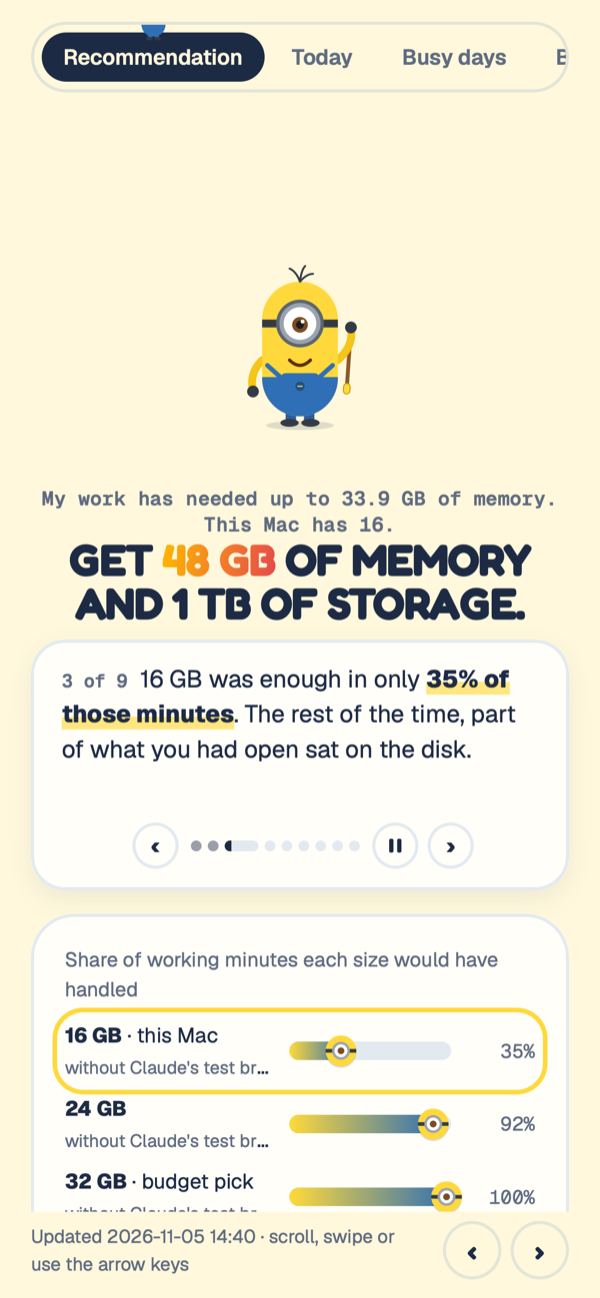
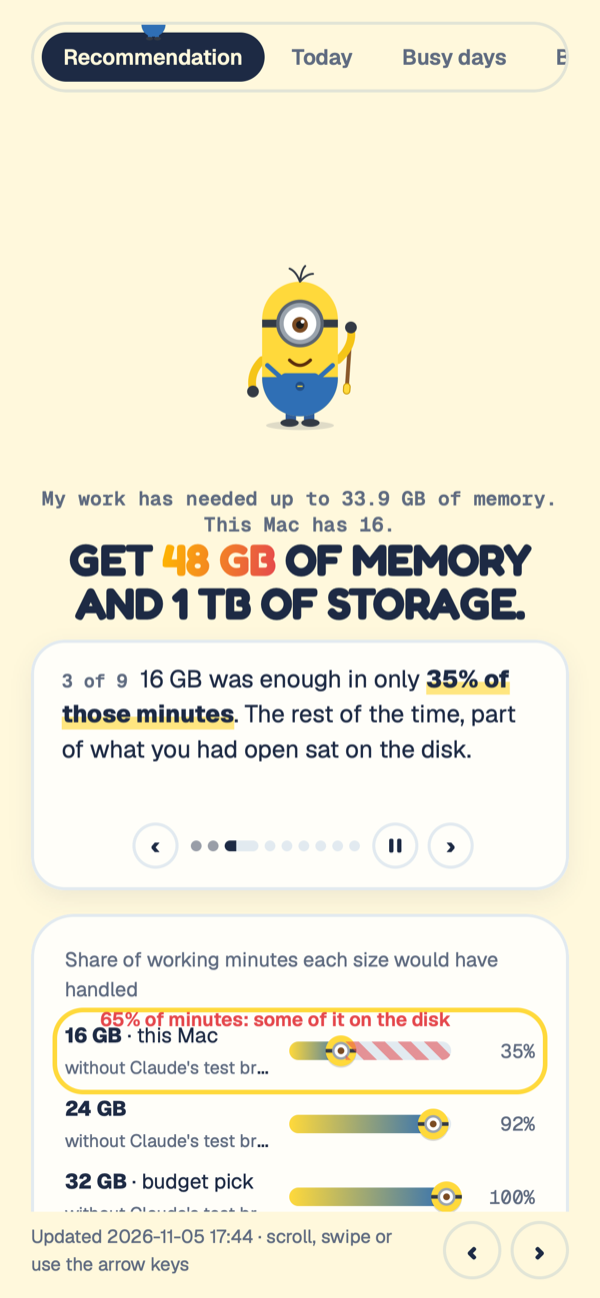
1.2.0: on the Recommendation tab the page's own charts act out each step of the buddy's explanation
Bars regrow while it counts the minutes, the part that did not fit turns into red 'on the disk'
stripes, a banana-striped stretch shows the test browsers closed, a 99% line drops for the budget
pick, the jars card comes forward and is measured (busiest minute, plus a quarter, then the size),
storage and days measured get small gauges, and the summary lands in the headline. A click or
scroll anywhere puts the page back; reduced motion jumps to each scene's end; phones skip the fade.
README lesson demo re-recorded.

Changed region(s): [[0.15, 0.7704, 0.75, 0.832], [0.45, 0.9245, 0.66, 0.9553], [0.36, 0.9245, 0.42, 0.9553]]

diff --git a/skills/more-bananas/app/report.py b/skills/more-bananas/app/report.py
@@ -371,7 +371,7 @@ def render(v):
 
     lesson = lesson_html(TOTAL=TOTAL, work=work, wdays=wdays, work_nb=work_nb, fits=fits, LADDER=LADDER, peak_ever=peak_ever,
                          peak_ever_when=peak_ever_when, target=target, rec=rec, budget=budget, fit16=fit16, disk_used=disk_used,
-                         disk_txt=disk_txt, n_wd=n_wd, WD_GOAL=WD_GOAL)
+                         disk_txt=disk_txt, disk_rec=disk_rec, n_wd=n_wd, WD_GOAL=WD_GOAL)
 
     # ---------- Busy hours: the takeaway ----------
     over_cells = sorted(((x, k) for k, x in wcell.items() if x > TOTAL), reverse=True)
@@ -797,50 +797,52 @@ let seen = false; try {{ seen = sessionStorage.getItem("mm-seen") === "1"; sessi
 # ---------- Recommendation: the buddy teaches how it got to the answer ----------
 # Every number comes from the readings. Steps that do not apply to this Mac are left out.
 def lesson_html(*, TOTAL, work, wdays, work_nb, fits, LADDER, peak_ever, peak_ever_when, target, rec, budget, fit16,
-                disk_used, disk_txt, n_wd, WD_GOAL):
+                disk_used, disk_txt, disk_rec, n_wd, WD_GOAL):
     def row(sz):
         return f".lad[data-sz='{sz}']" if sz in LADDER else ""
     me = int(round(TOTAL))
     nd = len(wdays)
+    # (what the stick points at, what the bubble says, the scene the page acts out, that scene's numbers)
     steps = [("#rec-note", f"I watched <b>{len(work):,} working minutes</b>, 7am to midnight, over {nd} day{'s' if nd != 1 else ''}. "
-                           "Here is how I got from those to my answer.")]
-    if peak_ever > TOTAL:
-        steps.append(("#rec-jars", f"The busiest minute, {peak_ever_when}, needed <b>{peak_ever:.1f} GB</b>. "
-                                   f"This Mac has {TOTAL:.0f}, so {peak_ever - TOTAL:.1f} GB of it had to wait on the disk."))
-    else:
-        steps.append(("#rec-jars", f"The busiest minute, {peak_ever_when}, needed <b>{peak_ever:.1f} GB</b>. "
-                                   f"This Mac has {TOTAL:.0f}, so even that minute fitted."))
+                           "Here is how I got from those to my answer.", "minutes", {"n": len(work)})]
+    spill = peak_ever > TOTAL
+    steps.append(("#rec-jars", f"The busiest minute, {peak_ever_when}, needed <b>{peak_ever:.1f} GB</b>. "
+                               + (f"This Mac has {TOTAL:.0f}, so {peak_ever - TOTAL:.1f} GB of it had to wait on the disk." if spill else
+                                  f"This Mac has {TOTAL:.0f}, so even that minute fitted."),
+                  "jar", {"jar": 0}))
     steps.append((row(me), f"{TOTAL:.0f} GB was enough in {'only ' if fit16 < .9 else ''}<b>{fit16:.0%} of those minutes</b>."
-                           + (" The rest of the time, part of what you had open sat on the disk." if fit16 < 1 else "")))
+                           + (" The rest of the time, part of what you had open sat on the disk." if fit16 < 1 else ""),
+                  "fit", {"sz": me, "pct": round(fit16 * 100)}))
     if work_nb:
         nb = fits(me, work_nb)
         if nb >= fit16 + .05:
             steps.append((row(me), f"Without the hidden test browsers Claude opens, {TOTAL:.0f} GB would have been enough "
-                                   f"<b>{nb:.0%} of the time</b>. Closing those is free; more memory is not."))
+                                   f"<b>{nb:.0%} of the time</b>. Closing those is free; more memory is not.",
+                          "nobrowsers", {"sz": me, "pct": round(fit16 * 100), "nb": round(nb * 100)}))
     if rec > TOTAL and budget != rec and budget > TOTAL:
         steps.append((row(budget), f"<b>{budget} GB</b> would have covered 99% of minutes. That is the budget pick: "
-                                   "enough for today, with little room to grow."))
-    if rec > TOTAL:
-        steps.append((", ".join(x for x in (row(rec), "#rec-mem") if x),
-                      f"For my answer I take the busiest minute, {peak_ever:.1f} GB, and add a quarter for a heavier week: "
-                      f"{target:.1f} GB. The next size Macs come in is <b>{rec} GB</b>."))
-    else:
-        steps.append(("#rec-mem", f"For my answer I take the busiest minute, {peak_ever:.1f} GB, and add a quarter for a heavier week: "
-                                  f"{target:.1f} GB. This Mac already has <b>{TOTAL:.0f} GB</b>."))
+                                   "enough for today, with little room to grow.",
+                      "budget", {"sz": budget, "pct": round(fits(budget, work) * 100)}))
+    jar_i, cap = (1, rec) if rec > TOTAL else (0, int(round(TOTAL)))
+    steps.append(("#rec-jars, #rec-mem",
+                  f"For my answer I take the busiest minute, {peak_ever:.1f} GB, and add a quarter for a heavier week: {target:.1f} GB. "
+                  + (f"The next size Macs come in is <b>{rec} GB</b>." if rec > TOTAL else f"This Mac already has <b>{TOTAL:.0f} GB</b>."),
+                  "measure", {"jar": jar_i, "cap": cap, "a": round(peak_ever, 1), "b": round(target, 1)}))
     steps.append(("#rec-disk", f"Storage: <b>{disk_used:.0f} GB</b> is in use now. Half again for growth makes "
-                               f"{disk_used * 1.5:.0f} GB, so <b>{disk_txt}</b>."))
+                               f"{disk_used * 1.5:.0f} GB, so <b>{disk_txt}</b>.",
+                  "disk", {"used": round(disk_used), "need": round(disk_used * 1.5), "cap": disk_rec, "label": disk_txt}))
     steps.append(("#rec-days", f"I have measured {n_wd} of {WD_GOAL} working days so far. A busier week could change this, "
-                               "so keep me running."))
+                               "so keep me running.", "days", {"n": n_wd, "goal": WD_GOAL}))
     steps.append(("#rec-h1", f"So: <b>{rec} GB</b> of memory and <b>{disk_txt}</b> of storage." if rec > TOTAL else
-                             f"So: this Mac&#x27;s <b>{TOTAL:.0f} GB</b> is enough for now. Look again after a busy week."))
+                             f"So: this Mac&#x27;s <b>{TOTAL:.0f} GB</b> is enough for now. Look again after a busy week.",
+                  "sum", {}))
     n = len(steps)
-    items = "".join(f'<li data-t="{t}"{" class=on" if k == 0 else ""}><span class=k>{k + 1} of {n}</span>{x}</li>'
-                    for k, (t, x) in enumerate(steps))
+    items = "".join(f'<li data-t="{t}" data-scene="{sc}" data-d=\'{json.dumps(d)}\'{" class=on" if k == 0 else ""}>'
+                    f'<span class=k>{k + 1} of {n}</span>{x}</li>' for k, (t, x, sc, d) in enumerate(steps))
     return (f'<div class="lesson en" id=lesson style="--n:1"><ol aria-label="How the buddy worked out the answer">{items}</ol>'
             '<div class=ctl><button type=button class=lp aria-label="Previous step">&lsaquo;</button><span class=ld aria-hidden=true></span>'
             '<button type=button class=lt aria-label="Pause the lesson"></button>'
             '<button type=button class=ln aria-label="Next step">&rsaquo;</button></div></div>')
-
 
 LESSON_CSS = """
 /* the lesson: one speech bubble, one step at a time; all steps share one grid cell so the bubble never changes height */
@@ -873,6 +875,48 @@ LESSON_CSS = """
 #p-rec .buddy svg.nod{animation:nod .34s ease-out}
 @keyframes nod{40%{transform:translateY(4px)}}
 @media(prefers-reduced-motion:reduce){.lesson li,.lesson li.on,.lesson-t,#p-rec .stick,.lesson .ld i{transition:none}#p-rec .buddy svg.nod{animation:none}}
+
+/* scenes: on each step the page's own pictures act it out. Everything else fades back; nothing changes size. */
+#p-rec .hero>*,#p-rec .two>.c,#p-rec .specs>.c,#p-rec .ladder .row{transition:opacity .4s ease-out,transform .6s cubic-bezier(.2,.9,.25,1)}
+#p-rec.sc-on .hero>:not(#lesson):not(.buddy-wrap),#p-rec.sc-on .two>.c:not(.sc-lead),#p-rec.sc-on .specs>.c:not(.sc-lead){opacity:.2}
+#p-rec.sc-rows .ladder .row:not(.sc-lead){opacity:.3}
+#p-rec.sc-soft .ladder .row:not(.sc-lead){opacity:.55}
+#rec-jars.sc-fwd{position:relative;z-index:6;background:var(--bg);box-shadow:0 18px 50px rgba(29,42,68,.18)}
+#rec-jars .jar{transition:opacity .4s}
+#rec-jars .jar.sc-back{opacity:.25}
+.sc-x{pointer-events:none}
+.sc-disk{position:absolute;top:0;bottom:0;right:0;border-radius:0 9px 9px 0;background:repeating-linear-gradient(45deg,color-mix(in oklab,var(--hot) 55%,transparent) 0 6px,transparent 6px 12px);
+ background-size:17px 17px;transform-origin:left;animation:scgrow .8s cubic-bezier(.16,1,.3,1) both,scslide 1.2s linear infinite}
+.sc-ghost{position:absolute;top:-3px;bottom:-3px;border-radius:9px;border:2px dashed #c99700;background:repeating-linear-gradient(45deg,rgba(255,217,59,.6) 0 6px,transparent 6px 12px);
+ transform-origin:left;animation:scgrow .9s cubic-bezier(.16,1,.3,1) both}
+.sc-tag{position:absolute;bottom:calc(100% + 6px);white-space:nowrap;font:600 12.5px Geist,sans-serif;animation:scfade .35s .55s both}
+.sc-disk .sc-tag{right:0;color:var(--hot)} .sc-ghost .sc-tag{left:0;color:#9a7400}
+.sc-line{position:absolute;width:0;border-left:2px dashed var(--fg);transform-origin:top;animation:scdrop .7s cubic-bezier(.16,1,.3,1) both}
+.sc-line .sc-tag{left:6px;bottom:auto;top:-22px;color:var(--fg)}
+.sc-meas line{stroke:var(--fg);stroke-width:3;stroke-dasharray:8 7;opacity:0;transition:opacity .3s,y1 .9s cubic-bezier(.16,1,.3,1),y2 .9s cubic-bezier(.16,1,.3,1)}
+.sc-meas .m2{stroke:#e8590c}
+.sc-meas text{font:600 21px Geist,sans-serif;fill:var(--fg);opacity:0;transition:opacity .35s}
+.sc-meas .t2{fill:#e8590c} .sc-meas .t3{font:700 34px Fredoka,sans-serif}
+.sc-meas .on{opacity:1}
+.sc-meas .t3.on,.sc-slam{animation:scslam .3s cubic-bezier(.2,.8,.2,1) both;transform-box:fill-box;transform-origin:center}
+#rec-jars.sc-fwd .jtag.good{opacity:0}
+.sc-call{position:absolute;left:0;right:0;bottom:calc(100% + 12px);z-index:7;padding:12px 14px;border-radius:18px;background:var(--bg);border:2px solid var(--line);
+ box-shadow:0 10px 30px rgba(29,42,68,.14);font:500 13px Geist,sans-serif;color:var(--mute);animation:scrise .45s cubic-bezier(.2,.9,.25,1) both}
+.sc-gauge{position:relative;height:16px;border-radius:9px;background:var(--line);margin:8px 0 8px}
+.sc-gauge i{position:absolute;left:0;top:0;bottom:0;border-radius:9px;transform-origin:left;animation:scgrow .9s cubic-bezier(.16,1,.3,1) both}
+.sc-gauge .u{background:linear-gradient(90deg,var(--banana),#f0a500)}
+.sc-gauge .h{background:repeating-linear-gradient(45deg,rgba(201,151,0,.55) 0 6px,transparent 6px 12px);border:2px dashed #c99700;top:-3px;bottom:-3px}
+.sc-leg{display:flex;justify-content:space-between;gap:8px;font:600 12.5px Geist,sans-serif;color:var(--fg)}
+.sc-leg i{font-style:normal;white-space:nowrap;animation:scfade .3s both} .sc-leg .e2{color:#9a7400} .sc-leg .end{margin-left:auto}
+.sc-days{display:flex;gap:6px;margin-top:4px}
+.sc-days i{flex:1;height:22px;border-radius:7px;border:2px dashed var(--line)}
+.sc-days i.y{border:0;background:linear-gradient(180deg,var(--banana),#f0a500);animation:scpop .4s cubic-bezier(.3,1.6,.5,1) both}
+.specs .c.sc-pop{transform:translateY(-6px);outline:3px solid var(--banana);outline-offset:4px}
+@keyframes scgrow{from{transform:scaleX(0)}} @keyframes scslide{to{background-position:17px 0}} @keyframes scfade{from{opacity:0;transform:translateY(4px)}}
+@keyframes scdrop{from{transform:scaleY(0)}} @keyframes scrise{from{opacity:0;transform:translateY(10px)}} @keyframes scpop{from{transform:scale(.3);opacity:0}}
+@keyframes scslam{0%{transform:scale(1.55)}55%{transform:scale(.94)}100%{transform:scale(1)}}
+@media(prefers-reduced-motion:reduce){#p-rec .hero>*,#p-rec .two>.c,#p-rec .specs>.c,#p-rec .ladder .row,.sc-meas line,.sc-meas text{transition:none}
+ .sc-disk,.sc-ghost,.sc-tag,.sc-line,.sc-call,.sc-gauge i,.sc-leg i,.sc-days i.y,.sc-meas .t3.on,.sc-slam{animation:none}}
 @media(max-width:760px){.lesson{flex-direction:column;align-items:stretch;border-radius:22px;text-align:left}.lesson:before{display:none}.lesson .ctl{justify-content:center}}
 """
 
@@ -919,13 +963,98 @@ LESSON_JS = r"""<script>
     a = Math.max(22, Math.min(105, a));  // never across the headline
     if (ang === null || Math.abs(a - ang) > .5) { ang = a; stick.style.transform = `rotate(${a.toFixed(1)}deg)`; }
   };
+
+  // Scenes: the page's own charts act out each step. Numbers come from the step's data-d, written by report.py.
+  const NS = "http://www.w3.org/2000/svg", wide = () => !matchMedia("(max-width: 760px)").matches;
+  const jarsCard = document.getElementById("rec-jars"), jarSvg = jarsCard && jarsCard.querySelector("svg");
+  const lad = sz => P.querySelector(`.lad[data-sz='${sz}']`);
+  P.querySelectorAll(".lad").forEach(r => { const b = r.querySelector(".track b"); r.dataset.w = b.style.getPropertyValue("--w"); r.dataset.em = r.querySelector("em").textContent; });
+  let ST = [];
+  const later = (f, ms) => ST.push(setTimeout(f, calm ? 0 : ms));
+  const count = (el, from, to, ms, fmt) => { if (calm) { el.textContent = fmt(to); return; } const t0 = performance.now();
+    const f = () => { const q = Math.min((performance.now() - t0) / ms, 1); el.textContent = fmt(q >= 1 ? to : from + (to - from) * (1 - Math.pow(2, -10 * q))); if (q < 1 && ST.length) requestAnimationFrame(f); }; f(); };
+  const pct = v => Math.round(v) + "%";
+  const fill = (r, to, delay) => { const b = r.querySelector(".track b"), em = r.querySelector("em");
+    b.style.transition = "none"; b.style.setProperty("--w", "2%"); em.textContent = "0%"; void b.offsetWidth;
+    later(() => { b.style.transition = "width 1.1s cubic-bezier(.16,1,.3,1)"; b.style.setProperty("--w", to + "%"); count(em, 0, to, 1100, pct); }, delay); };
+  // On a phone the step's target is often below the fold, so fading the rest would only dim what is on screen.
+  const dim = (...c) => wide() && P.classList.add(...c);
+  const lead = (...els) => els.forEach(e => e && e.classList.add("sc-lead"));
+  const replay = g => g && g.getAnimations({ subtree: true }).forEach(a => { a.cancel(); a.play(); });
+  // Bring the jars card forward into the space under the speech bubble, as large as fits there (never over the bubble).
+  const forward = () => { if (!jarsCard || !wide()) return; const r = jarsCard.getBoundingClientRect(), top = L.getBoundingClientRect().bottom + 14,
+      room = Math.min(innerHeight, P.getBoundingClientRect().bottom) - top - 14, s = Math.max(1, Math.min(1.28, room / r.height, innerWidth * .8 / r.width));
+    jarsCard.classList.add("sc-fwd"); jarsCard.style.transform = `translate(${innerWidth / 2 - (r.left + r.width / 2)}px,${top + Math.max(room, r.height * s) / 2 - (r.top + r.height / 2)}px) scale(${s})`; };
+  const add = (parent, html, cls) => { const d = document.createElement("div"); d.className = "sc-x " + cls; d.innerHTML = html; parent.appendChild(d); return d; };
+  const reset = () => {
+    ST.forEach(clearTimeout); ST = [];
+    P.classList.remove("sc-on", "sc-rows", "sc-soft");
+    P.querySelectorAll(".sc-lead,.sc-pop,.sc-back,.sc-slam").forEach(e => e.classList.remove("sc-lead", "sc-pop", "sc-back", "sc-slam"));
+    P.querySelectorAll(".sc-x").forEach(e => e.remove()); jarSvg && jarSvg.querySelector(".sc-meas")?.remove();
+    if (jarsCard) { jarsCard.style.transform = ""; jarsCard.classList.remove("sc-fwd"); }
+    P.querySelectorAll(".lad").forEach(r => { const b = r.querySelector(".track b"); b.style.transition = ""; b.style.setProperty("--w", r.dataset.w); r.querySelector("em").textContent = r.dataset.em; });
+    const note = document.getElementById("rec-note"); if (note && note.dataset.t) note.innerHTML = note.dataset.t;
+  };
+  const SC = {
+    minutes(d) { const card = P.querySelector(".ladder").closest(".c"), note = document.getElementById("rec-note");
+      dim("sc-on"); lead(card);
+      P.querySelectorAll(".lad").forEach((r, k) => fill(r, parseInt(r.dataset.em), 120 + k * 90));
+      note.dataset.t = note.innerHTML; const n = d.n.toLocaleString("en-GB");
+      note.innerHTML = note.innerHTML.replace(n, `<b class=sc-n>${n}</b>`); const el = note.querySelector(".sc-n");
+      if (el) count(el, 0, d.n, 1400, v => Math.round(v).toLocaleString("en-GB")); },
+    jar(d) { const g = jarSvg && jarSvg.querySelectorAll(".jar"); if (!g) return;
+      dim("sc-on"); lead(jarsCard); forward();
+      g.forEach((x, k) => x.classList.toggle("sc-back", k !== d.jar));
+      later(() => replay(g[d.jar]), 450); later(() => g[d.jar].querySelector(".jtag")?.classList.add("sc-slam"), 1700); },
+    fit(d) { const r = lad(d.sz); if (!r) return; dim("sc-on", "sc-rows"); lead(r.closest(".c"), r);
+      fill(r, d.pct, 300);
+      if (d.pct < 100) later(() => add(r.querySelector(".track"), `<span class=sc-tag>${100 - d.pct}% of minutes: some of it on the disk</span>`, "sc-disk").style.left = d.pct + "%", 1500); },
+    nobrowsers(d) { const r = lad(d.sz); if (!r) return; dim("sc-on", "sc-rows"); lead(r.closest(".c"), r);
+      const t = r.querySelector(".track");
+      const gh = add(t, `<span class=sc-tag>with Claude's test browsers closed: ${d.nb}%</span>`, "sc-ghost"); gh.style.left = d.pct + "%"; gh.style.width = (d.nb - d.pct) + "%";
+      if (d.nb < 100) later(() => add(t, "", "sc-disk").style.left = d.nb + "%", 900); },
+    budget(d) { const r = lad(d.sz); if (!r) return; const lc = P.querySelector(".ladder"), tr = [...lc.querySelectorAll(".track")];
+      dim("sc-on", "sc-soft"); lead(r.closest(".c"), r);
+      const a = tr[0].getBoundingClientRect(), z = tr[tr.length - 1].getBoundingClientRect(), o = lc.getBoundingClientRect(); lc.style.position = "relative";
+      const ln = add(lc, "<span class=sc-tag>99% of minutes</span>", "sc-line");
+      Object.assign(ln.style, { left: (a.left - o.left + a.width * .99) + "px", top: (a.top - o.top - 6) + "px", height: (z.bottom - a.top + 12) + "px" });
+      fill(r, d.pct, 700); },
+    measure(d) { const g = jarSvg && jarSvg.querySelectorAll(".jar"); if (!g) return;
+      dim("sc-on"); lead(jarsCard, document.getElementById("rec-mem")); forward();
+      g.forEach((x, k) => x.classList.toggle("sc-back", k !== d.jar));
+      const cx = d.jar ? 740 : 260, y = v => 300 - 210 * v / d.cap, X0 = cx - 95, X1 = cx + 95;
+      const m = document.createElementNS(NS, "g"); m.setAttribute("class", "sc-meas"); jarSvg.appendChild(m);
+      m.innerHTML = `<line class=m1 x1="${X0 - 6}" x2="${X1 + 10}" y1="${y(d.a)}" y2="${y(d.a)}"/><text class=t1 x="${X1 + 18}" y="${y(d.a) + 7}">busiest ${d.a} GB</text>`
+        + `<line class=m2 x1="${X0 - 6}" x2="${X1 + 10}" y1="${y(d.a)}" y2="${y(d.a)}"/><text class=t2 x="${X1 + 18}" y="${y(d.b) + 7}">+ ¼ = ${d.b} GB</text>`
+        + `<text class=t3 x="${cx}" y="64" text-anchor=middle>${d.cap} GB</text>`;
+      later(() => replay(g[d.jar]), 450);
+      later(() => { m.querySelector(".m1").classList.add("on"); m.querySelector(".t1").classList.add("on"); }, 1400);
+      later(() => { const l = m.querySelector(".m2"); l.classList.add("on"); l.setAttribute("y1", y(d.b)); l.setAttribute("y2", y(d.b)); m.querySelector(".t2").classList.add("on"); }, 2600);
+      later(() => m.querySelector(".t3").classList.add("on"), 3900); },
+    disk(d) { const c = document.getElementById("rec-disk"); if (!c) return; dim("sc-on"); lead(c);
+      const w = v => Math.min(v / d.cap * 100, 100).toFixed(1) + "%";
+      add(c, `<div class=sc-gauge><i class=h style="width:${w(d.need)};animation-delay:.9s"></i><i class=u style="width:${w(d.used)}"></i></div>`
+        + `<div class=sc-leg><i>in use ${d.used} GB</i><i class=e2 style="animation-delay:1.3s">+ half = ${d.need} GB</i><i class=end style="animation-delay:1.8s">fits in ${d.label}</i></div>`, "sc-call"); },
+    days(d) { const c = document.getElementById("rec-days"); if (!c) return; dim("sc-on"); lead(c);
+      add(c, `<div>${d.n} of ${d.goal} working days measured</div><div class=sc-days>`
+        + Array.from({ length: d.goal }, (_, k) => k < d.n ? `<i class=y style="animation-delay:${.3 + k * .12}s"></i>` : "<i></i>").join("") + "</div>", "sc-call"); },
+    sum() { const em = document.querySelector("#rec-h1 em"); if (em) { em.classList.remove("sc-slam"); void em.offsetWidth; later(() => em.classList.add("sc-slam"), 200); }
+      ["rec-mem", "rec-disk"].forEach((id, k) => later(() => document.getElementById(id)?.classList.add("sc-pop"), 600 + k * 260)); },
+  };
+  const scene = () => { reset(); const st = steps[i], f = SC[st.dataset.scene]; if (!f || !P.classList.contains("on")) return;
+    try { f(JSON.parse(st.dataset.d || "{}")); } catch (_) {} };
+  // Never block use: a click anywhere outside the bubble (or, on a wide screen, a scroll) puts the page back as it was.
+  // Not pointerdown: on a phone every scroll starts with one, and the reader has to scroll to reach steps 6 to 8.
+  const back = e => { if (!e.target.closest("#lesson")) reset(); };
+  P.addEventListener("click", back); P.addEventListener("wheel", e => wide() && back(e), { passive: true });
+  let sceneT = null; const later0 = f => { clearTimeout(sceneT); sceneT = setTimeout(f, calm ? 0 : 120); };
   const go = (k, keepT) => {
     tgts(i).forEach(el => el.classList.remove("lit"));
     i = Math.max(0, Math.min(n - 1, k)); if (!keepT) t = 0;
     steps.forEach((s, j) => s.classList.toggle("on", j === i));
     dots.forEach((d, j) => { d.classList.toggle("on", j === i); d.classList.toggle("done", j < i); d.style.setProperty("--p", 0); });
     tgts(i).forEach(el => el.classList.add("lit"));
-    show();
+    show(); later0(scene);
     if (svg && !calm) { svg.classList.remove("nod"); void svg.getBoundingClientRect(); svg.classList.add("nod"); }
     aim(); label(); save();
   };
@@ -937,7 +1066,7 @@ LESSON_JS = r"""<script>
   setInterval(() => {
     const now = performance.now(), dt = now - last; last = now;
     aim();
-    const on = P.classList.contains("on"); if (on && !wasOn) setTimeout(show, 450); wasOn = on;
+    const on = P.classList.contains("on"); if (on && !wasOn) { setTimeout(show, 450); later0(scene); } if (!on && wasOn) reset(); wasOn = on;
     if (!playing || !P.classList.contains("on") || document.hidden) return;
     t += dt; const d = dur(i);
     if (dots[i]) dots[i].style.setProperty("--p", Math.min(t / d, 1).toFixed(3));

diff --git a/README.md b/README.md
@@ -42,8 +42,8 @@ This measures instead. It reads macOS's own memory figures once a minute, keeps 
 ## See it in action
 
 <p align="center">
-  <img src="docs/demo/lesson.gif" width="860" alt="The buddy on the Recommendation tab holds a pointer and explains its answer one step at a time, while each step's chart row or card lights up"/>
-  <br/><sub><b>🧑🏫 The buddy shows its working.</b> On the Recommendation tab it explains the answer one step at a time, pointing at the row or card each step is about: how many minutes it watched, the busiest minute, how often your RAM was enough, the budget pick, the size it recommends and why, and storage. Every number comes from your own readings, and steps that don't apply to your Mac are left out. Pause, step back, or replay any time.</sub>
+  <img src="docs/demo/lesson.gif" width="860" alt="The buddy on the Recommendation tab explains its answer one step at a time while the page's own charts act out each step: bars regrow, the spill turns into red stripes, a 99% line drops, the jar comes forward and is measured"/>
+  <br/><sub><b>🧑🏫 The buddy shows its working.</b> On the Recommendation tab it explains the answer one step at a time, and the page's own charts act out each step: the bars regrow as it counts the minutes, the part that didn't fit turns into red &ldquo;on the disk&rdquo; stripes, a 99% line drops for the budget pick, and the jar comes forward to be measured (busiest minute, plus a quarter, rounded up to a size Macs come in). Storage and days measured get their own little gauges. Every number comes from your own readings, and steps that don't apply to your Mac are left out. Pause, step back, or replay any time.</sub>
 </p>
 
 <table>

diff --git a/skills/more-bananas/SKILL.md b/skills/more-bananas/SKILL.md
@@ -18,8 +18,9 @@ Nothing is sent anywhere. Everything lives in `~/memlog/` (readings as CSV, the 
    of working minutes (7am to midnight). Shows the share of working minutes each size would have handled,
    with and without the hidden test browsers Claude opens, how many working days are measured (goal 10),
    and processor load. Storage = current disk use × 1.5.
-   The buddy explains the answer step by step in a speech bubble, pointing at the row or card each step is
-   about (it plays once a day, then rests on the summary; pause, step and replay buttons).
+   The buddy explains the answer step by step in a speech bubble while the page's own charts act out each
+   step: bars regrow, the spill turns into red stripes, the jar is measured (it plays once a day, then rests
+   on the summary; pause, step and replay buttons; a click or scroll anywhere puts the page back).
 2. **Today**: today's minute-by-minute memory need against the RAM line, the minutes it was actively
    swapping, and what held memory at today's busiest minute.
 3. **Busy days**: one timeline since the history start: Claude Code sessions open at once above the line
